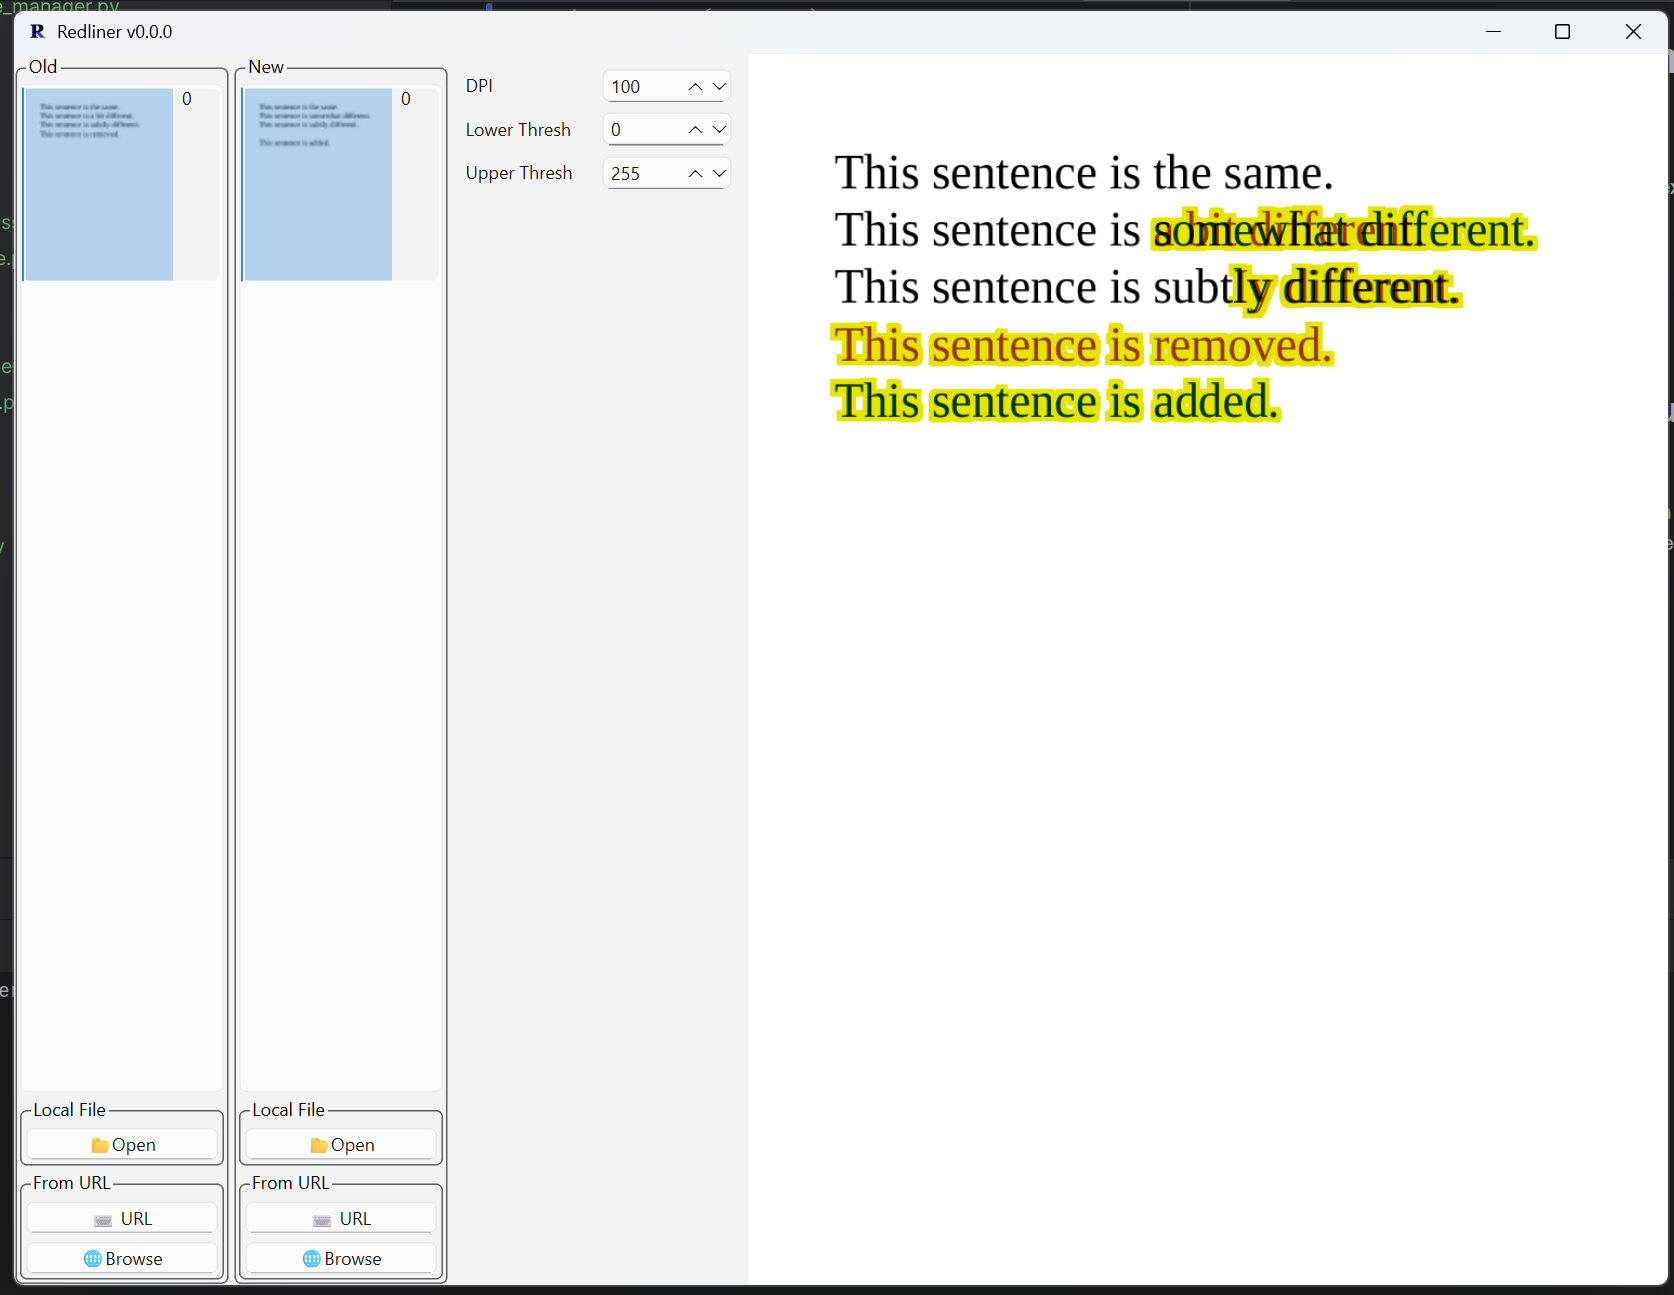
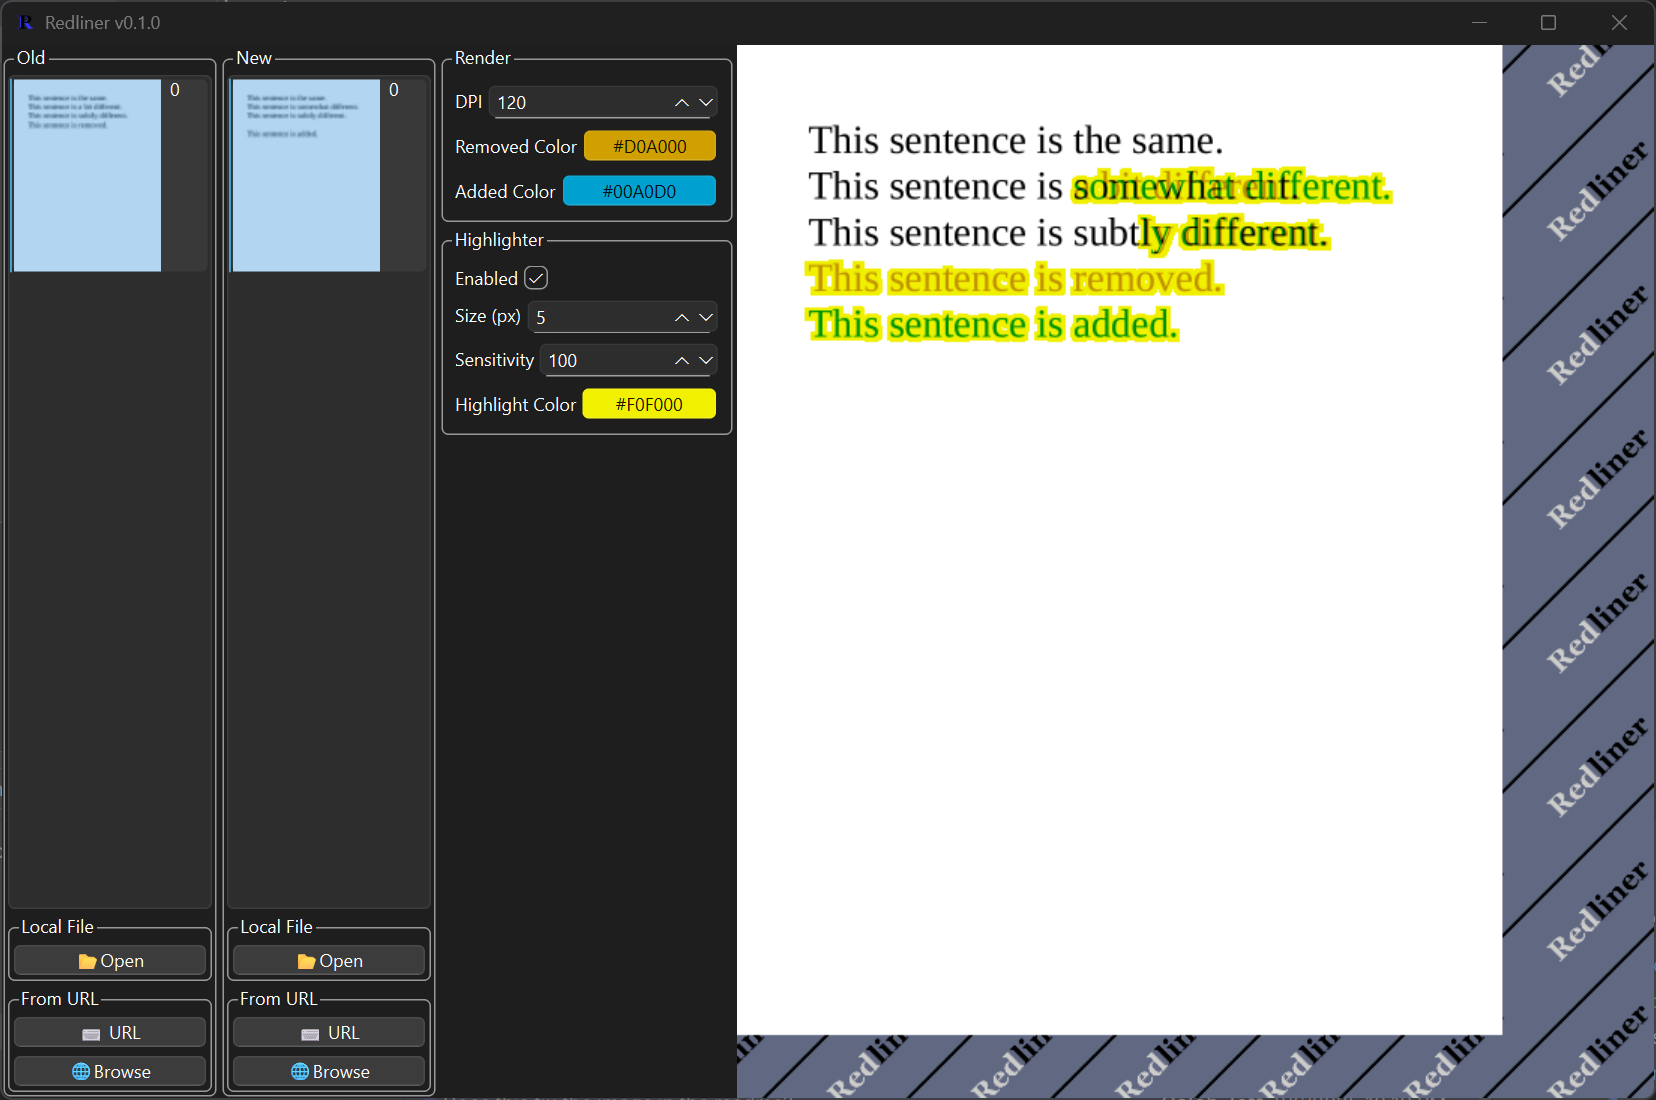
Update readme and example.png

diff --git a/README.md b/README.md
@@ -1,5 +1,5 @@
 
-# Redliner [0.0.2] - PDF (and more) Compare Tool
+# Redliner [0.1.0] - PDF (and more) Compare Tool
 
 EARLY DEVELOPMENT! Expect bugs and missing features. No version checking / updating exists yet. <br><br>
 Redliner allows for quickly identifying changes in text and visual documents by generating a per-pixel visual diff. <br> <br>
